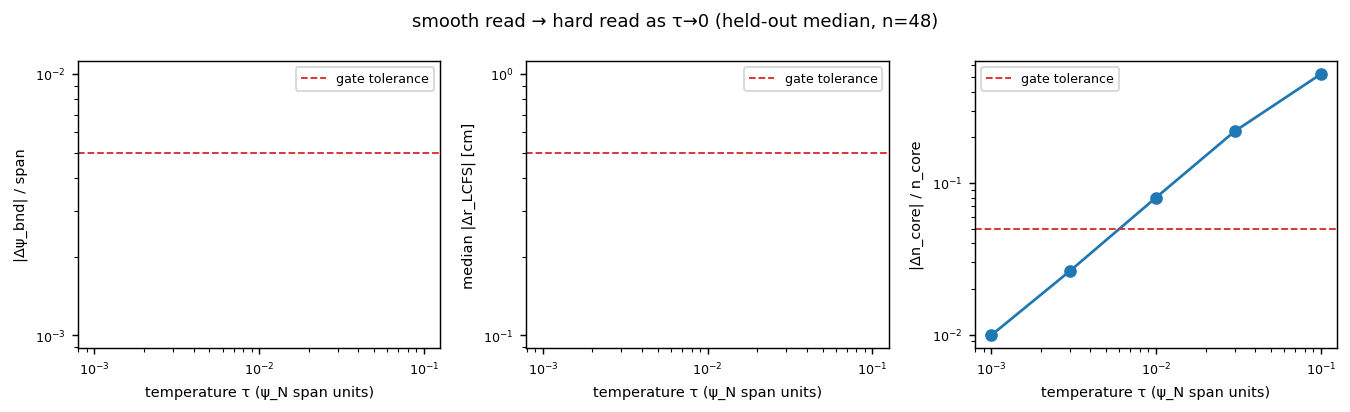
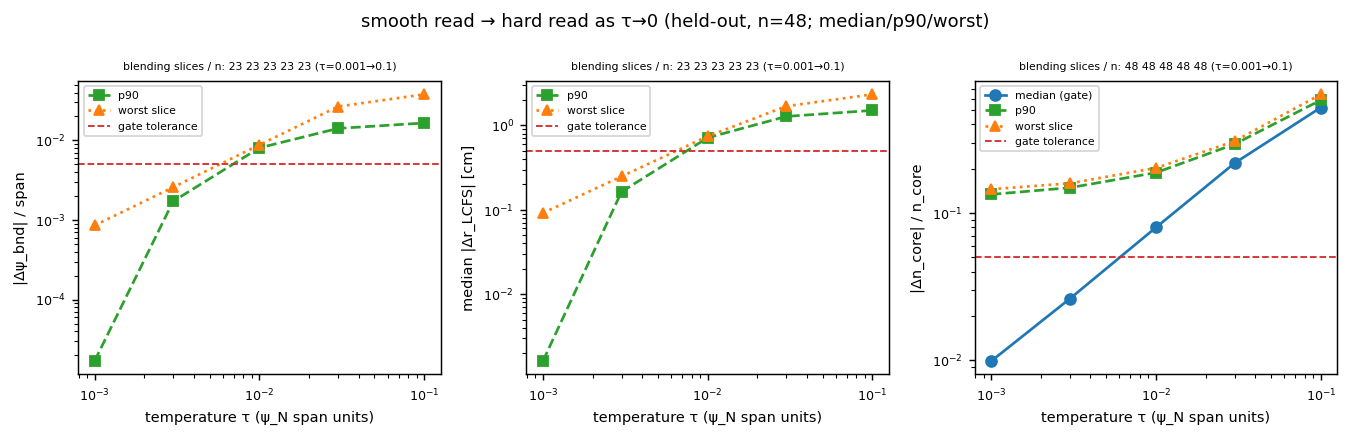
fix(gate-eval): smooth-convergence stats report median/p90/worst + blending-slice count — exact zeros annotated instead of blank log panels

diff --git a/scripts/connectivity_boundary_gate_eval.py b/scripts/connectivity_boundary_gate_eval.py
@@ -1570,22 +1570,36 @@ def _smooth_convergence_gate(overlays):
             per_tau[t]["dcore"].append(
                 abs(float(sm["n_core_soft"]) - gpu.n_core_cells) / gpu.n_core_cells
             )
-    ladder = {
-        t: {k: (float(np.median(v)) if v else float("nan")) for k, v in d.items()}
-        for t, d in per_tau.items()
-    }
+
+    def _stats(v):
+        # median for the verdict; p90/max + the blending-slice count for
+        # visibility — the softmin's losing weight underflows to exactly 0 when
+        # the candidates sit further apart than a few τ, so the MEDIAN slice is
+        # bit-exact and only the marginal (blending) slices carry a difference.
+        if not v:
+            return {"med": float("nan"), "p90": float("nan"), "max": float("nan")}
+        a = np.asarray(v, dtype=np.float64)
+        return {
+            "med": float(np.median(a)),
+            "p90": float(np.percentile(a, 90)),
+            "max": float(np.max(a)),
+            "n_nonzero": int(np.sum(a > 0.0)),
+            "n": int(a.size),
+        }
+
+    ladder = {t: {k: _stats(v) for k, v in d.items()} for t, d in per_tau.items()}
     t_min = min(SMOOTH_TAUS)
     fin = ladder[t_min]
-    dpsi_desc = [ladder[t]["dpsi"] for t in sorted(SMOOTH_TAUS, reverse=True)]
+    dpsi_desc = [ladder[t]["dpsi"]["med"] for t in sorted(SMOOTH_TAUS, reverse=True)]
     converging = all(np.isfinite(x) for x in dpsi_desc) and (
         dpsi_desc[-1] <= dpsi_desc[0]
     )
     ok = (
         n_slices > 0
         and converging
-        and fin["dpsi"] <= SMOOTH_PSI_TOL
-        and fin["drad_cm"] <= SMOOTH_RADII_TOL_CM
-        and fin["dcore"] <= SMOOTH_CORE_TOL
+        and fin["dpsi"]["med"] <= SMOOTH_PSI_TOL
+        and fin["drad_cm"]["med"] <= SMOOTH_RADII_TOL_CM
+        and fin["dcore"]["med"] <= SMOOTH_CORE_TOL
     )
     return {
         "verdict": "PASS" if ok else "FAIL",
@@ -1996,7 +2010,12 @@ def _region_separation_gate(overlays):
 
 
 def _figures_smooth(smooth_gate):
-    """Smooth-read convergence figure: smooth-vs-hard error vs temperature."""
+    """Smooth-read convergence figure: smooth-vs-hard error vs temperature.
+
+    Plots median, p90, and worst slice.  Exact zeros (the softmin's losing
+    weight underflows when the binding candidates sit further apart than a few
+    τ, so most slices are bit-exact) cannot render on a log axis — they are
+    annotated instead of leaving a blank panel."""
     FIG_DIR.mkdir(parents=True, exist_ok=True)
     taus = sorted(float(t) for t in smooth_gate["ladder"])
     panels = [
@@ -2004,18 +2023,59 @@ def _figures_smooth(smooth_gate):
         ("drad_cm", "median |Δr_LCFS| [cm]", SMOOTH_RADII_TOL_CM),
         ("dcore", "|Δn_core| / n_core", SMOOTH_CORE_TOL),
     ]
-    fig, axes = plt.subplots(1, 3, figsize=(10.5, 3.2))
+    fig, axes = plt.subplots(1, 3, figsize=(10.5, 3.4))
     for ax, (key, label, tol) in zip(axes, panels, strict=True):
-        vals = [smooth_gate["ladder"][str(t)][key] for t in taus]
-        ax.loglog(taus, vals, "o-", color="C0")
+        series = [
+            ("med", "median (gate)", "C0", "o-"),
+            ("p90", "p90", "C2", "s--"),
+            ("max", "worst slice", "C1", "^:"),
+        ]
+        any_pos = False
+        for stat, name, color, style in series:
+            vals = np.asarray(
+                [smooth_gate["ladder"][str(t)][key].get(stat, np.nan) for t in taus]
+            )
+            pos = vals > 0
+            if pos.any():
+                any_pos = True
+                ax.loglog(
+                    np.asarray(taus)[pos], vals[pos], style, color=color, label=name
+                )
+            if (~pos).any():
+                # exact zeros: mark along the bottom axis instead of vanishing
+                ax.plot(
+                    np.asarray(taus)[~pos],
+                    np.full((~pos).sum(), np.nan),
+                    linestyle="none",
+                )
+        n_nz = [smooth_gate["ladder"][str(t)][key].get("n_nonzero") for t in taus]
+        if not any_pos:
+            ax.text(
+                0.5,
+                0.5,
+                "smooth ≡ hard (bit-exact)\nfor every slice at every τ",
+                transform=ax.transAxes,
+                ha="center",
+                va="center",
+                fontsize=8,
+                color="C0",
+            )
+            ax.set_xscale("log")
+        elif all(n is not None for n in n_nz):
+            ax.set_title(
+                "blending slices / n: "
+                + " ".join(f"{n}" for n in n_nz)
+                + f" (τ={taus[0]}→{taus[-1]})",
+                fontsize=6,
+            )
         ax.axhline(tol, color="C3", ls="--", lw=1.0, label="gate tolerance")
         ax.set_xlabel("temperature τ (ψ_N span units)", fontsize=8)
         ax.set_ylabel(label, fontsize=8)
         ax.tick_params(labelsize=7)
-        ax.legend(fontsize=7)
+        ax.legend(fontsize=6)
     fig.suptitle(
         "smooth read → hard read as τ→0 "
-        f"(held-out median, n={smooth_gate['n_slices']})",
+        f"(held-out, n={smooth_gate['n_slices']}; median/p90/worst)",
         fontsize=10,
     )
     fig.tight_layout()
